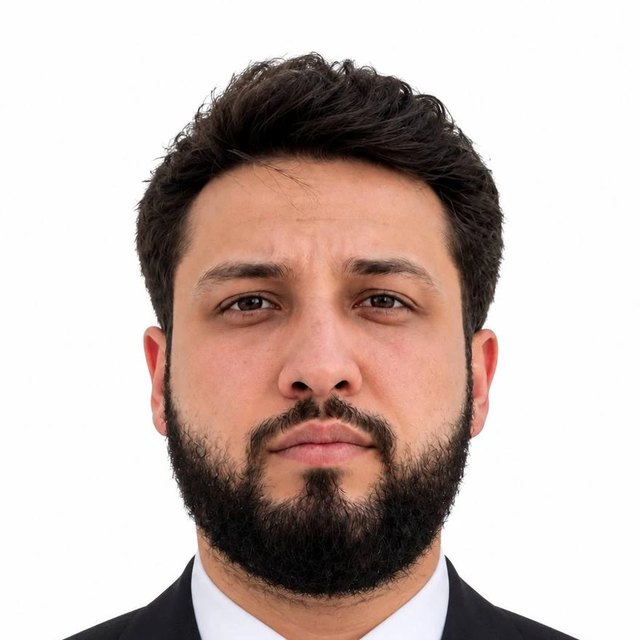
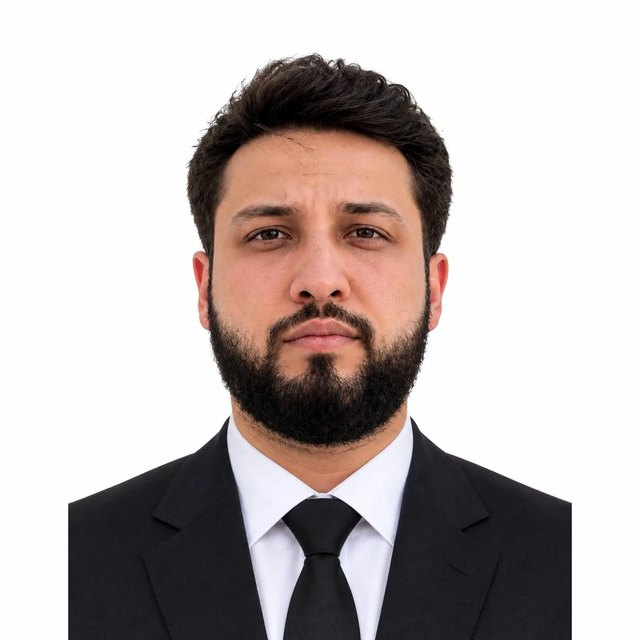
Workwear photo for Zufarov, wider Riskulov photo, drop 'boshlig'i' from three roles
Claude-Session: https://claude.ai/code/session_01XDJXparPxY9mmuqEVM6T5h

diff --git a/js/script.js b/js/script.js
@@ -174,10 +174,10 @@ const i18n = {
     n10_v: "Tezkor yetkazib berish",
     n10_l: "O'zbekiston bo'ylab",
     role_director: "Direktor",
-    role_sales: "Sotuv bo'limi boshlig'i",
+    role_sales: "Sotuv bo'limi",
     role_dev: "Dasturlash bo'limi boshlig'i",
-    role_finance: "Moliya bo'limi boshlig'i",
-    role_metrology: "Metrologiya bo'limi boshlig'i",
+    role_finance: "Moliya bo'limi",
+    role_metrology: "Metrologiya bo'limi",
     role_marketing: "OAV marketologi",
     role_lawyer: "Yurist",
     home_partners_eyebrow: "Hamkorlarimiz",
@@ -377,10 +377,10 @@ const i18n = {
     n10_v: "Быстрая доставка",
     n10_l: "По всему Узбекистану",
     role_director: "Директор",
-    role_sales: "Руководитель отдела продаж",
+    role_sales: "Отдел продаж",
     role_dev: "Руководитель отдела программирования",
-    role_finance: "Руководитель финансового отдела",
-    role_metrology: "Руководитель отдела метрологии",
+    role_finance: "Финансовый отдел",
+    role_metrology: "Отдел метрологии",
     role_marketing: "Маркетолог по СМИ",
     role_lawyer: "Юрист",
     home_partners_eyebrow: "Наши партнёры",
@@ -580,10 +580,10 @@ const i18n = {
     n10_v: "Fast delivery",
     n10_l: "Across Uzbekistan",
     role_director: "Director",
-    role_sales: "Head of Sales",
+    role_sales: "Sales Department",
     role_dev: "Head of Software Development",
-    role_finance: "Head of Finance",
-    role_metrology: "Head of Metrology",
+    role_finance: "Finance Department",
+    role_metrology: "Metrology Department",
     role_marketing: "Media marketer",
     role_lawyer: "Lawyer",
     home_partners_eyebrow: "Our partners",

diff --git a/about.html b/about.html
@@ -117,7 +117,7 @@
         <div class="team-card reveal">
           <div class="team-avatar"><img src="assets/team/djalilov-dilshod.jpg" alt="Djalilov Dilshod Abduvasikovich" loading="lazy"></div>
           <div class="team-name">Djalilov Dilshod Abduvasikovich</div>
-          <div class="team-role" data-i18n="role_sales">Sotuv bo'limi boshlig'i</div>
+          <div class="team-role" data-i18n="role_sales">Sotuv bo'limi</div>
         </div>
         <div class="team-card reveal">
           <div class="team-avatar"><img src="assets/team/abdulloh-isroilov.jpg" alt="Isroilov Abdulloh Abdufattoh o'g'li" loading="lazy"></div>
@@ -127,12 +127,12 @@
         <div class="team-card reveal">
           <div class="team-avatar initials"><span aria-hidden="true">SA</span></div>
           <div class="team-name">Saksonov Azimjon</div>
-          <div class="team-role" data-i18n="role_finance">Moliya bo'limi boshlig'i</div>
+          <div class="team-role" data-i18n="role_finance">Moliya bo'limi</div>
         </div>
         <div class="team-card reveal">
           <div class="team-avatar"><img src="assets/team/zufarov-behzod.jpg" alt="Zufarov Behzod Nazimovich" loading="lazy"></div>
           <div class="team-name">Zufarov Behzod Nazimovich</div>
-          <div class="team-role" data-i18n="role_metrology">Metrologiya bo'limi boshlig'i</div>
+          <div class="team-role" data-i18n="role_metrology">Metrologiya bo'limi</div>
         </div>
         <div class="team-card reveal">
           <div class="team-avatar"><img src="assets/team/risqulov-doston.jpg" alt="Riskulov Doston Valixon" loading="lazy"></div>

diff --git a/index.html b/index.html
@@ -280,7 +280,7 @@
         <div class="team-card reveal">
           <div class="team-avatar"><img src="assets/team/djalilov-dilshod.jpg" alt="Djalilov Dilshod Abduvasikovich" loading="lazy"></div>
           <div class="team-name">Djalilov Dilshod Abduvasikovich</div>
-          <div class="team-role" data-i18n="role_sales">Sotuv bo'limi boshlig'i</div>
+          <div class="team-role" data-i18n="role_sales">Sotuv bo'limi</div>
         </div>
         <div class="team-card reveal">
           <div class="team-avatar"><img src="assets/team/abdulloh-isroilov.jpg" alt="Isroilov Abdulloh Abdufattoh o'g'li" loading="lazy"></div>
@@ -290,12 +290,12 @@
         <div class="team-card reveal">
           <div class="team-avatar initials"><span aria-hidden="true">SA</span></div>
           <div class="team-name">Saksonov Azimjon</div>
-          <div class="team-role" data-i18n="role_finance">Moliya bo'limi boshlig'i</div>
+          <div class="team-role" data-i18n="role_finance">Moliya bo'limi</div>
         </div>
         <div class="team-card reveal">
           <div class="team-avatar"><img src="assets/team/zufarov-behzod.jpg" alt="Zufarov Behzod Nazimovich" loading="lazy"></div>
           <div class="team-name">Zufarov Behzod Nazimovich</div>
-          <div class="team-role" data-i18n="role_metrology">Metrologiya bo'limi boshlig'i</div>
+          <div class="team-role" data-i18n="role_metrology">Metrologiya bo'limi</div>
         </div>
         <div class="team-card reveal">
           <div class="team-avatar"><img src="assets/team/risqulov-doston.jpg" alt="Riskulov Doston Valixon" loading="lazy"></div>
